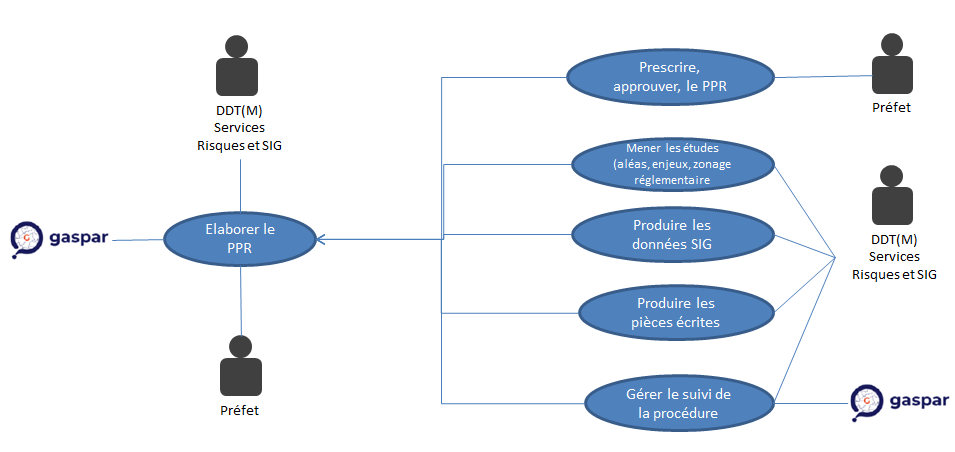
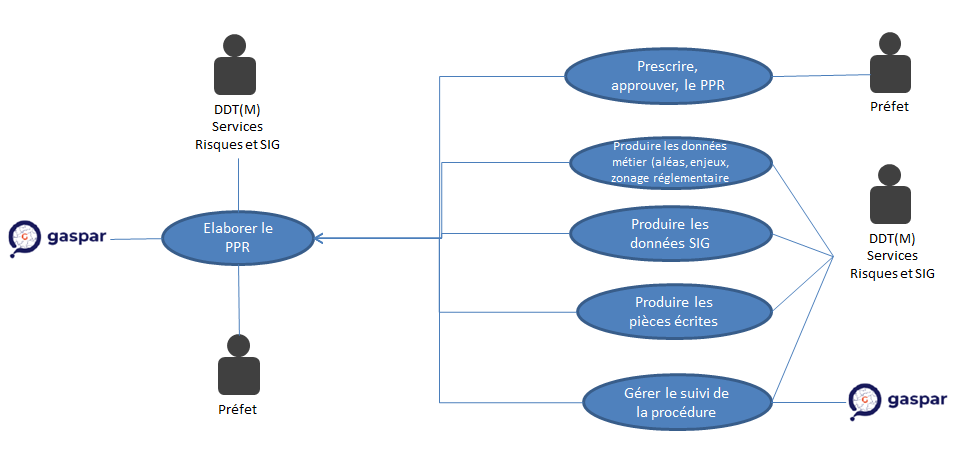
2 cas d'utilisation

diff --git a/standards/Geostandards-risques-ppr/Document.md b/standards/Geostandards-risques-ppr/Document.md
@@ -300,10 +300,19 @@ Les cas d'utilisation illustrés ci-après mettent en oeuvre la production, la p
 
 ### Cas d'utilisation Elaborer un PPR
 
-Le cas d'utilisation "Elaborer un PPR" xxxx
+Le cas d'utilisation "Elaborer un PPR" illustre à grand traits les étapes d'élaboration d'un PPR et les acteurs majeurs et systèmes impliqués. Les étapes présentées ne sont pas toutes concernées au même niveau par le périmètre du ce standard.
+
+|Action du cas d'utilisation| Description|
+|-|-|
+|Prescrire, approuver, ... le PPR | Cette action, de la responsabilité du Prêfet, témoigne de l'aspect réglementaire et juridique des PPR. Elle ne concerne ce standard que dans la mesure où ce dernier permet de décrire l'état juridique du PPR, résultant de cette action. |
+| Produire les données métier | Cette étape, menée sous la responsabilité des DDT(M)s est centrale dans l'élaboration du PPR, puisqu'elle permet d'en établir l'essence même : définir les zones d'aléas, faire la collecte des enjeux et établir le zonage réglementaire résultant. A ce stade ces données métiers peuvent être directement produites selon le formalisme du standard. |
+| Produire les données SIG | Cette étape, menée sous la responsabilité des DDT(M)s permet de produire les données numériques correspondant à la cartographie du PPR. Elle peut être une sous étape de la précédente si cette dernière à directement produit ces données numériquement ou peut y succéder s'il s'agit de les numériser. Dans tous les cas, elle est complètement dans le périmètre de ce standard qui permet de structurer cette information. |
+| Produire les pièces écrites |  Cette étape, menée sous la responsabilité des DDT(M)s permet de produire les documents du dossier PPR, notamment les cartes qui peuvent être produites à partir des données SIG évoquées précédemment mais aussi le réglement et les arrêtés préfectoraux. Elle est concernée par le standard dans la mesure où ce dernier permet de faire référence à ces pièces écrites. |
+| Gérer le suivi de la procédure | Cette étape, menée sous la responsabilité des DDT(M)s, relate de l'utilisation de la base GASPAR (gestion assistée des procédures administratives relatives aux risques) pour l'enregistrement et le suivi du PPR au niveau national. Là aussi le standard PPR décrit des informationsqui permettent de faire le lien avec les informations de cette base.
 
 
-** Figure xx : Cas d'utilisation : Elaborer un PPR **
+
+**Figure xx : Cas d'utilisation : Elaborer un PPR**
 
 ![Elaborer un PPR](./ressources/CU-elaborer-ppr.png)
 
@@ -311,10 +320,15 @@ Le cas d'utilisation "Elaborer un PPR" xxxx
 
 ### Cas d'utilisation Publier un PPR
 
-Le cas d'utilisation "Publier un PPR" xxxx
+Le cas d'utilisation "Publier un PPR" illustre les grandes étapes de la mise en ligne des données numériques d'un PPR. Ce cas d'utilisation est au coeur de la cible du Standard, même si ce dernier ne couvre que marginalement la publication des pièces écrite.
 
 
-** Figure xx : Cas d'utilisation : Publier un PPR **
+|-|-|
+| Mettre en ligne les pièces écrites | Cette action, menée sous la responsabilité des DDT(M)s, vise à mettre en ligne les pièces écrites du dossier PPR. Elle se fait en général sur le site internet de la préfecture du département de la DDT(M) concernée. Les données décrites par le Standard permettent de mentionner le lien vers ces pièces écrites une fois publiées. |
+| Valider les données SIG | Cette action permet de vérifier que les données SIG relatives au PPR sont conformes au modèle et aux exigences de ce standard. Elle est un préalable à leur publication. La mise en oeuvre de cette action peut se faire sur le système de publication (ici, représenté par Géorisques). Des vérifications de cohérence avec le système GASPAR peuvent aussi être réalisées. |
+| Mettre en ligne les données SIG | Cette action est aussi au coeur de la cible de ce standard. Elle permet de rendre les données de PPR accessibles aux différents types d'utilisateurs mentionnés précédemment et de nourrir le cas d'utilisation suivant. La publication peut se faire sur le site internet le site internet de la préfecture du département de la DDT(M) concernée, mais si elle a voccation à se faire sur la palteforme nationale de diffusion qu'est Géorisques. |
+
+**Figure xx : Cas d'utilisation : Publier un PPR**
 
 ![Publier un PPR](./ressources/CU-publier-ppr.png)
 
@@ -324,7 +338,7 @@ Le cas d'utilisation "Publier un PPR" xxxx
 Le cas d'utilisation "Exploiter un PPR" xxxx
 
 
-** Figure xx : Cas d'utilisation : Exploiter un PPR **
+**Figure xx : Cas d'utilisation : Exploiter un PPR**
 
 ![Exploiter un PPR](./ressources/CU-exploiter-ppr.png)
 
